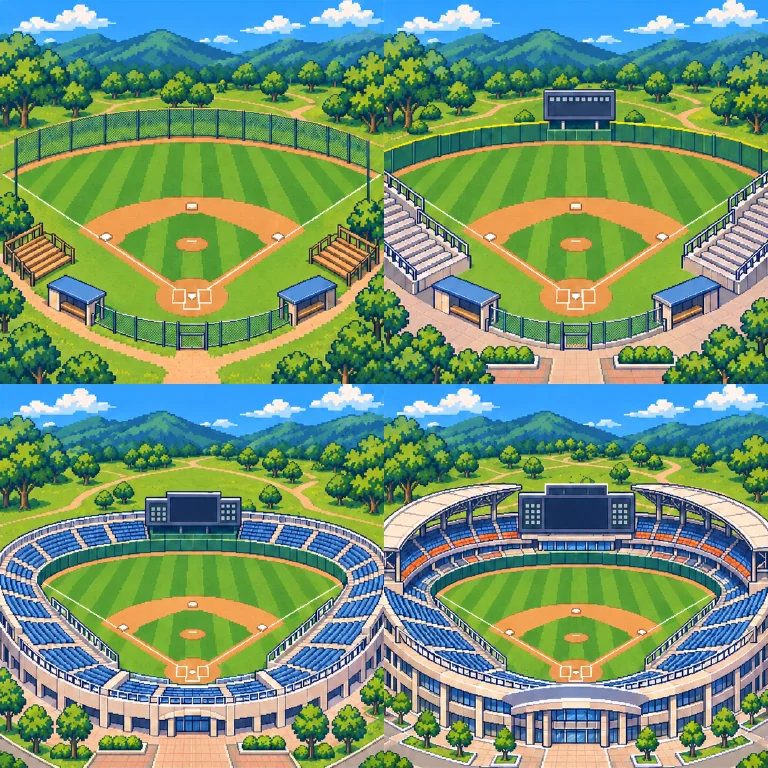
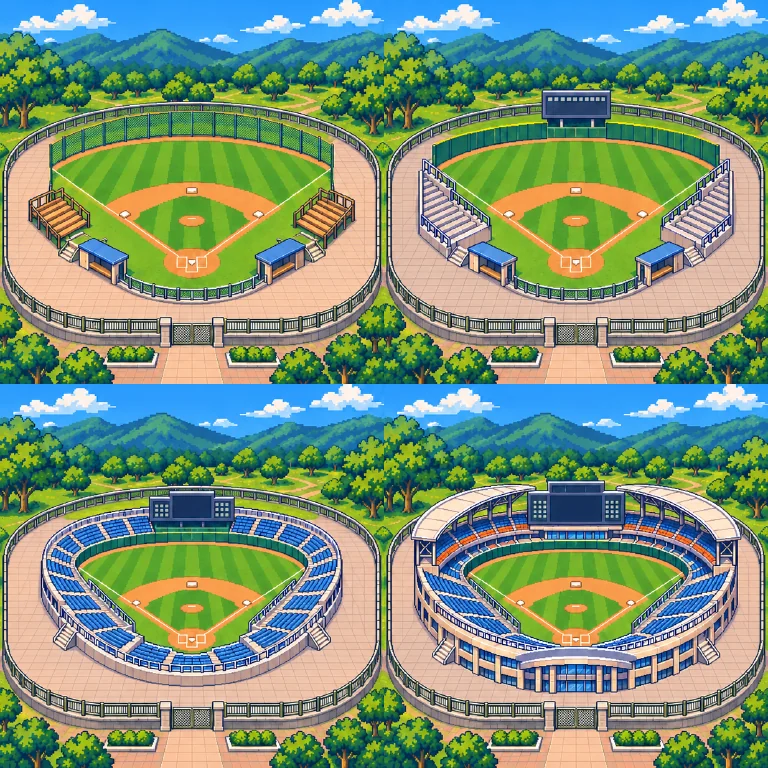
Place purchased facilities inside the ballpark

diff --git a/pennant-legends/index.html b/pennant-legends/index.html
@@ -177,10 +177,8 @@ body.home-screen{min-height:var(--home-viewport-height,100dvh);padding-bottom:va
 .match-advance-actions{display:flex;flex-wrap:wrap;gap:8px;margin-top:12px}
 .venue-scene{height:auto;min-height:0;background:#153c43}
 .venue-heading{display:flex;justify-content:space-between;align-items:center;gap:6px 14px;flex-wrap:wrap;padding:9px 12px;background:#11334e;color:#fff6bd}
-.venue-map{position:relative;aspect-ratio:1.36;background:repeating-linear-gradient(0deg,#337342 0 6px,#347745 6px 12px);overflow:hidden;isolation:isolate}
-.venue-map::before,.venue-map::after{content:"";position:absolute;top:7%;bottom:5%;width:5%;background:repeating-linear-gradient(0deg,#b7a476 0 9px,#ad966c 9px 10px);box-shadow:0 0 0 3px #285937}
-.venue-map::before{left:5%}.venue-map::after{right:5%}
-.venue-ballpark{position:absolute;inset:0 12%;z-index:1;background:url(assets/ballparks.webp?v=grounds) var(--stadium-x) var(--stadium-y)/200% 200% no-repeat;image-rendering:pixelated;box-shadow:0 0 0 2px #264730}
+.venue-map{position:relative;aspect-ratio:1.36;background:#337342;overflow:hidden;isolation:isolate}
+.venue-ballpark{position:absolute;inset:0;z-index:1;background:url(assets/ballparks.webp?v=inside) var(--stadium-x) var(--stadium-y)/200% 200% no-repeat;image-rendering:pixelated}
 .venue-layout{position:absolute;inset:0}
 .venue-facility{position:absolute;z-index:2;left:var(--ground-x);top:var(--ground-y);width:var(--ground-size);aspect-ratio:5/4;transform:translate(-50%,-100%);pointer-events:none}
 .venue-facility::before{content:"";position:absolute;inset:auto 6% 0;height:16%;background:#75674988;clip-path:polygon(5% 54%,17% 4%,91% 0,100% 64%,92% 100%,0 94%)}
@@ -223,8 +221,7 @@ body.home-screen{min-height:var(--home-viewport-height,100dvh);padding-bottom:va
  .home-screen .venue-art-frame{display:flex;aspect-ratio:3}
  .venue-art-frame .venue-map{width:100%;height:100%}
  .venue-map{aspect-ratio:4;container-type:size}
- .venue-map::before,.venue-map::after{content:none}
- .venue-ballpark{inset:0;background-image:url(assets/ballparks-wide.webp?v=grounds);background-position:center var(--wide-stadium-y);background-size:100% 400%;box-shadow:none}
+ .venue-ballpark{background-image:url(assets/ballparks-wide.webp?v=inside);background-position:center var(--wide-stadium-y);background-size:100% 400%}
  .venue-facility{left:var(--wide-ground-x);top:var(--wide-ground-y);width:min(var(--wide-ground-size),30cqh)}
 }
 </style><main><header class="hero"><div class="muted">BASEBALL MANAGEMENT SIMULATOR</div><h1> PENNANT LEGENDS</h1><div>架空12球団・選手育成・長期球団経営</div><p id="seasonCalendar" hidden></p></header><div id="profileStrip" class="profile-strip"></div><div id="profileDialog" class="profile-dialog" hidden role="dialog" aria-modal="true" aria-labelledby="profileTitle"><div id="profilePanel" class="profile-panel"></div></div><div id="setup" hidden></div><div id="summary"></div><section class="stadium-scene venue-scene" id="stadiumScene" aria-label="球団のホーム球場"></section><div id="matchViewer" class="match-viewer" hidden><div class="match-viewer-inner"><div class="match-viewer-header"><strong>試合観戦</strong><button data-action="closeWatch">終了</button></div><div id="matchScoreboard"></div><div class="match-field"><div class="match-diamond"><span class="match-base match-base-second"></span><span class="match-base match-base-first"></span><span class="match-base match-base-third"></span><span class="match-pitcher"></span><span class="match-batter"></span></div><div class="match-field-label">LIVE MATCH VIEW</div></div><div id="matchCommentary" class="match-commentary"></div><div class="match-watch-actions"><button data-action="nextInning">次のイニング</button><button data-action="watchToEnd">試合終了まで進める</button></div></div></div><div id="skipChoice" class="skip-choice" hidden role="dialog" aria-modal="true" aria-labelledby="skipChoiceTitle"><div class="skip-choice-panel"><h2 id="skipChoiceTitle">試合をスキップしますか？</h2><p id="skipChoiceDetail">進行方法を選択してください。</p><div class="skip-choice-buttons"><button data-action="confirmSkip">スキップする</button><button data-action="confirmWatch">スキップしない</button></div><button class="skip-cancel" data-action="cancelSkip">キャンセル</button></div></div><nav class="tabs" id="tabs"></nav><section id="view"></section><p id="gameFooter" class="muted small">ブラウザ内に自動保存・無料プレイ・架空選手のみ / v2.6</p></main><script>
@@ -576,10 +573,10 @@ const STADIUM_SEATS=[2000,5000,10000,22000];
 const STAND_COSTS=[100000,160000,260000];
 const FACILITIES={
  shed:{name:'用具小屋',price:25000,art:0,location:'一塁側ベンチの裏'},
- cage:{name:'打撃ケージ',price:45000,art:1,location:'左翼フェンスの外'},
- indoor:{name:'屋内練習場',price:80000,art:2,location:'右翼フェンスの外'},
- stands:{name:'増設スタンド',art:4,location:'一塁・三塁側の客席の外'},
- lights:{name:'照明塔',price:120000,art:5,location:'外野の左右'},
+ cage:{name:'打撃ケージ',price:45000,art:1,location:'球場内の三塁側練習区画'},
+ indoor:{name:'屋内練習場',price:80000,art:2,location:'球場内の一塁側練習区画'},
+ stands:{name:'増設スタンド',art:4,location:'一塁・三塁側の既存客席に接続'},
+ lights:{name:'照明塔',price:120000,art:5,location:'球場内の外野両側'},
  center:{name:'トレーニングセンター',price:180000,art:3,location:'右翼側の屋内練習場を建て替え'}
 };
 let facilityPreview='';
@@ -667,17 +664,17 @@ function buyFacility(key){
  notice=FACILITIES[key].name+'を球場に設置しました。';
  render();
 }
-// Each anchor is the ground contact point and sprite width, in artwork percentages.
+// Anchors mark the ground contact point and sprite width within the ballpark art.
 const FACILITY_GROUND={
- shed:[93,96,14],cage:[8,52,13],training:[92,53,16],
- 'stands-left':[9,78,14],'stands-right':[91,78,14],
- 'lamp-left':[7.5,29,12],'lamp-right':[92.5,29,12]
+ shed:[69,82,11],cage:[10,61,12],training:[90,61,13],
+ 'stands-left':[15,77,12.5],'stands-right':[85,77,12.5],
+ 'lamp-left':[10,43,10],'lamp-right':[90,43,10]
 };
-// The panoramic art leaves the same facility grounds open at every league level.
+// The panoramic art has wider concourses along the first- and third-base sides.
 const PANORAMA_GROUND={
- shed:[96.2,97,7.2],cage:[10,67,11],training:[90,68,12.5],
- 'stands-left':[13.5,95,10],'stands-right':[86,96,9],
- 'lamp-left':[12.5,37,8.5],'lamp-right':[87.5,37,8.5]
+ shed:[92,89,7.2],cage:[8,65,9],training:[90,63,11],
+ 'stands-left':[18,88,9.5],'stands-right':[82,88,9.5],
+ 'lamp-left':[10,39,8],'lamp-right':[90,39,8]
 };
 function venueArt(preview=''){
  const g=s.clubGrowth,owned={...g.owned},stands=g.stands+(preview==='stands'?1:0);
